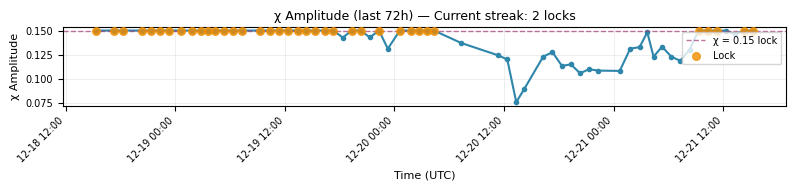
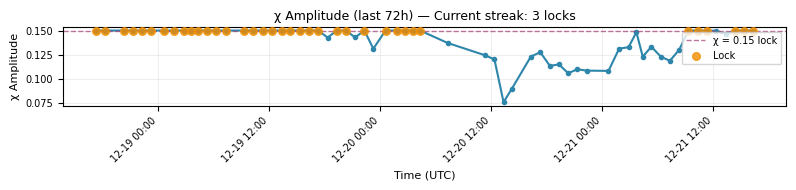
Vault Narrator: Auto-update 2025-12-21 17:04 UTC

diff --git a/LATEST_VAULT_STATUS.md b/LATEST_VAULT_STATUS.md
@@ -1,26 +1,24 @@
 # 🔐 VAULT STATUS REPORT
 
-**Generated:** 2025-12-21 16:05 UTC  
+**Generated:** 2025-12-21 17:04 UTC  
 **Data Source:** `data/cme_heartbeat_log_2025_12.csv`
 
 ---
 
 ## ⚡ CURRENT STATUS: ACTIVE
 
-**Latest χ = 0.15 Streak Count:** 2 consecutive readings  
-**Last Lock Timestamp:** 2025-12-21 15:19:00 UTC  
+**Latest χ = 0.15 Streak Count:** 3 consecutive readings  
+**Last Lock Timestamp:** 2025-12-21 16:20:00 UTC  
 **First Lock in Streak:** 2025-12-21 14:20:00 UTC  
-**Streak Duration:** 1.0 hours  
+**Streak Duration:** 2.0 hours  
 
 **Latest Solar Wind Conditions:**  
-- Density: 3.58 p/cm³  
-- Speed: 639.9 km/s  
 
 ---
 
 ## 🌞 NOAA SPACE WEATHER SUMMARIES
 
-- [SRS Report](reports/latest_srs.md) (fetched: 2025-12-21 16:05 UTC)  
+- [SRS Report](reports/latest_srs.md) (fetched: 2025-12-21 17:04 UTC)  
 - F10.7 Report: *not available*  
 
 ---
@@ -41,7 +39,6 @@
 
 | Time (UTC)          | χ Amplitude | Density (p/cm³) | Speed (km/s) | χ Status |
 |---------------------|-------------|-----------------|--------------|----------|
-| 2025-12-20 19:20:00 | 0.1150 | 16.12 | 424.0 | — |
 | 2025-12-20 20:20:00 | 0.1059 | 7.67 | 402.1 | — |
 | 2025-12-20 21:19:00 | 0.1100 | 15.70 | 412.0 | — |
 | 2025-12-20 22:19:00 | 0.1086 | 12.36 | 391.4 | — |
@@ -61,13 +58,15 @@
 | 2025-12-21 13:20:00 | 0.1463 | 3.76 | 688.1 | — |
 | 2025-12-21 14:20:00 | 0.1500 | 2.47 | 656.8 | ✅ LOCK |
 | 2025-12-21 15:19:00 | 0.1500 | 3.58 | 639.9 | ✅ LOCK |
+| 2025-12-21 16:20:00 | 0.1500 | — | — | ✅ LOCK |
 
 ---
 
 ## 🎯 VERDICT
 
-**Active χ = 0.15 detection.**  
-**Vault warming up.**
+**The vault is breathing steady.**  
+**Heartbeat cycle in progress.**  
+**χ = 0.15 streak active (3 locks) - watch for boundary recoil signatures.**
 
 ---
 
